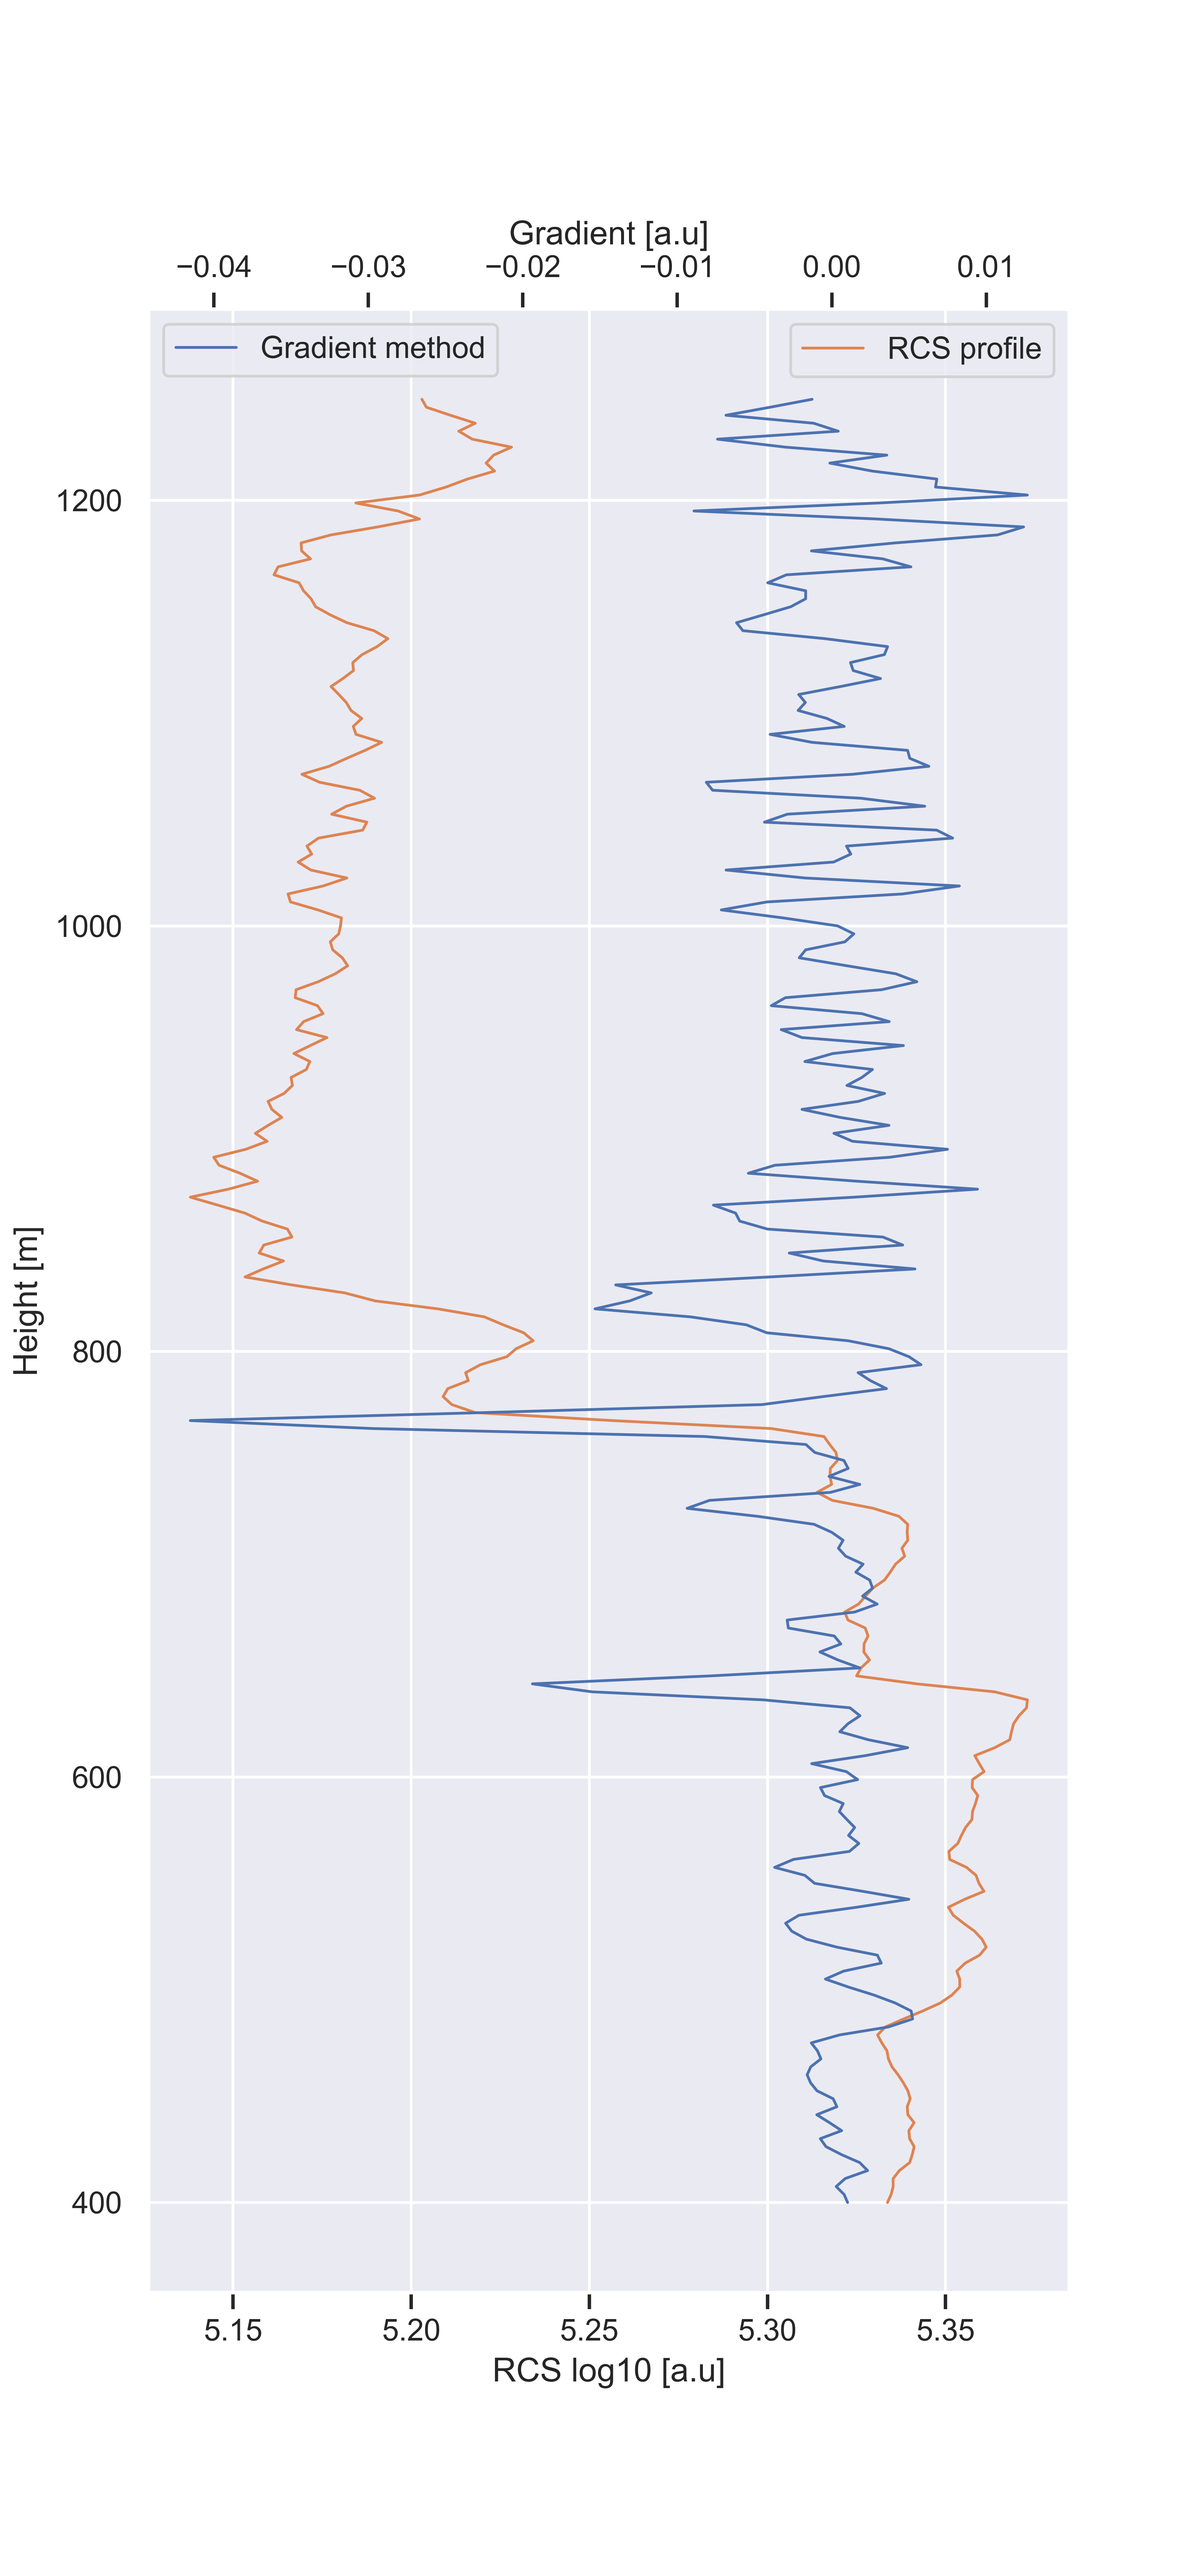
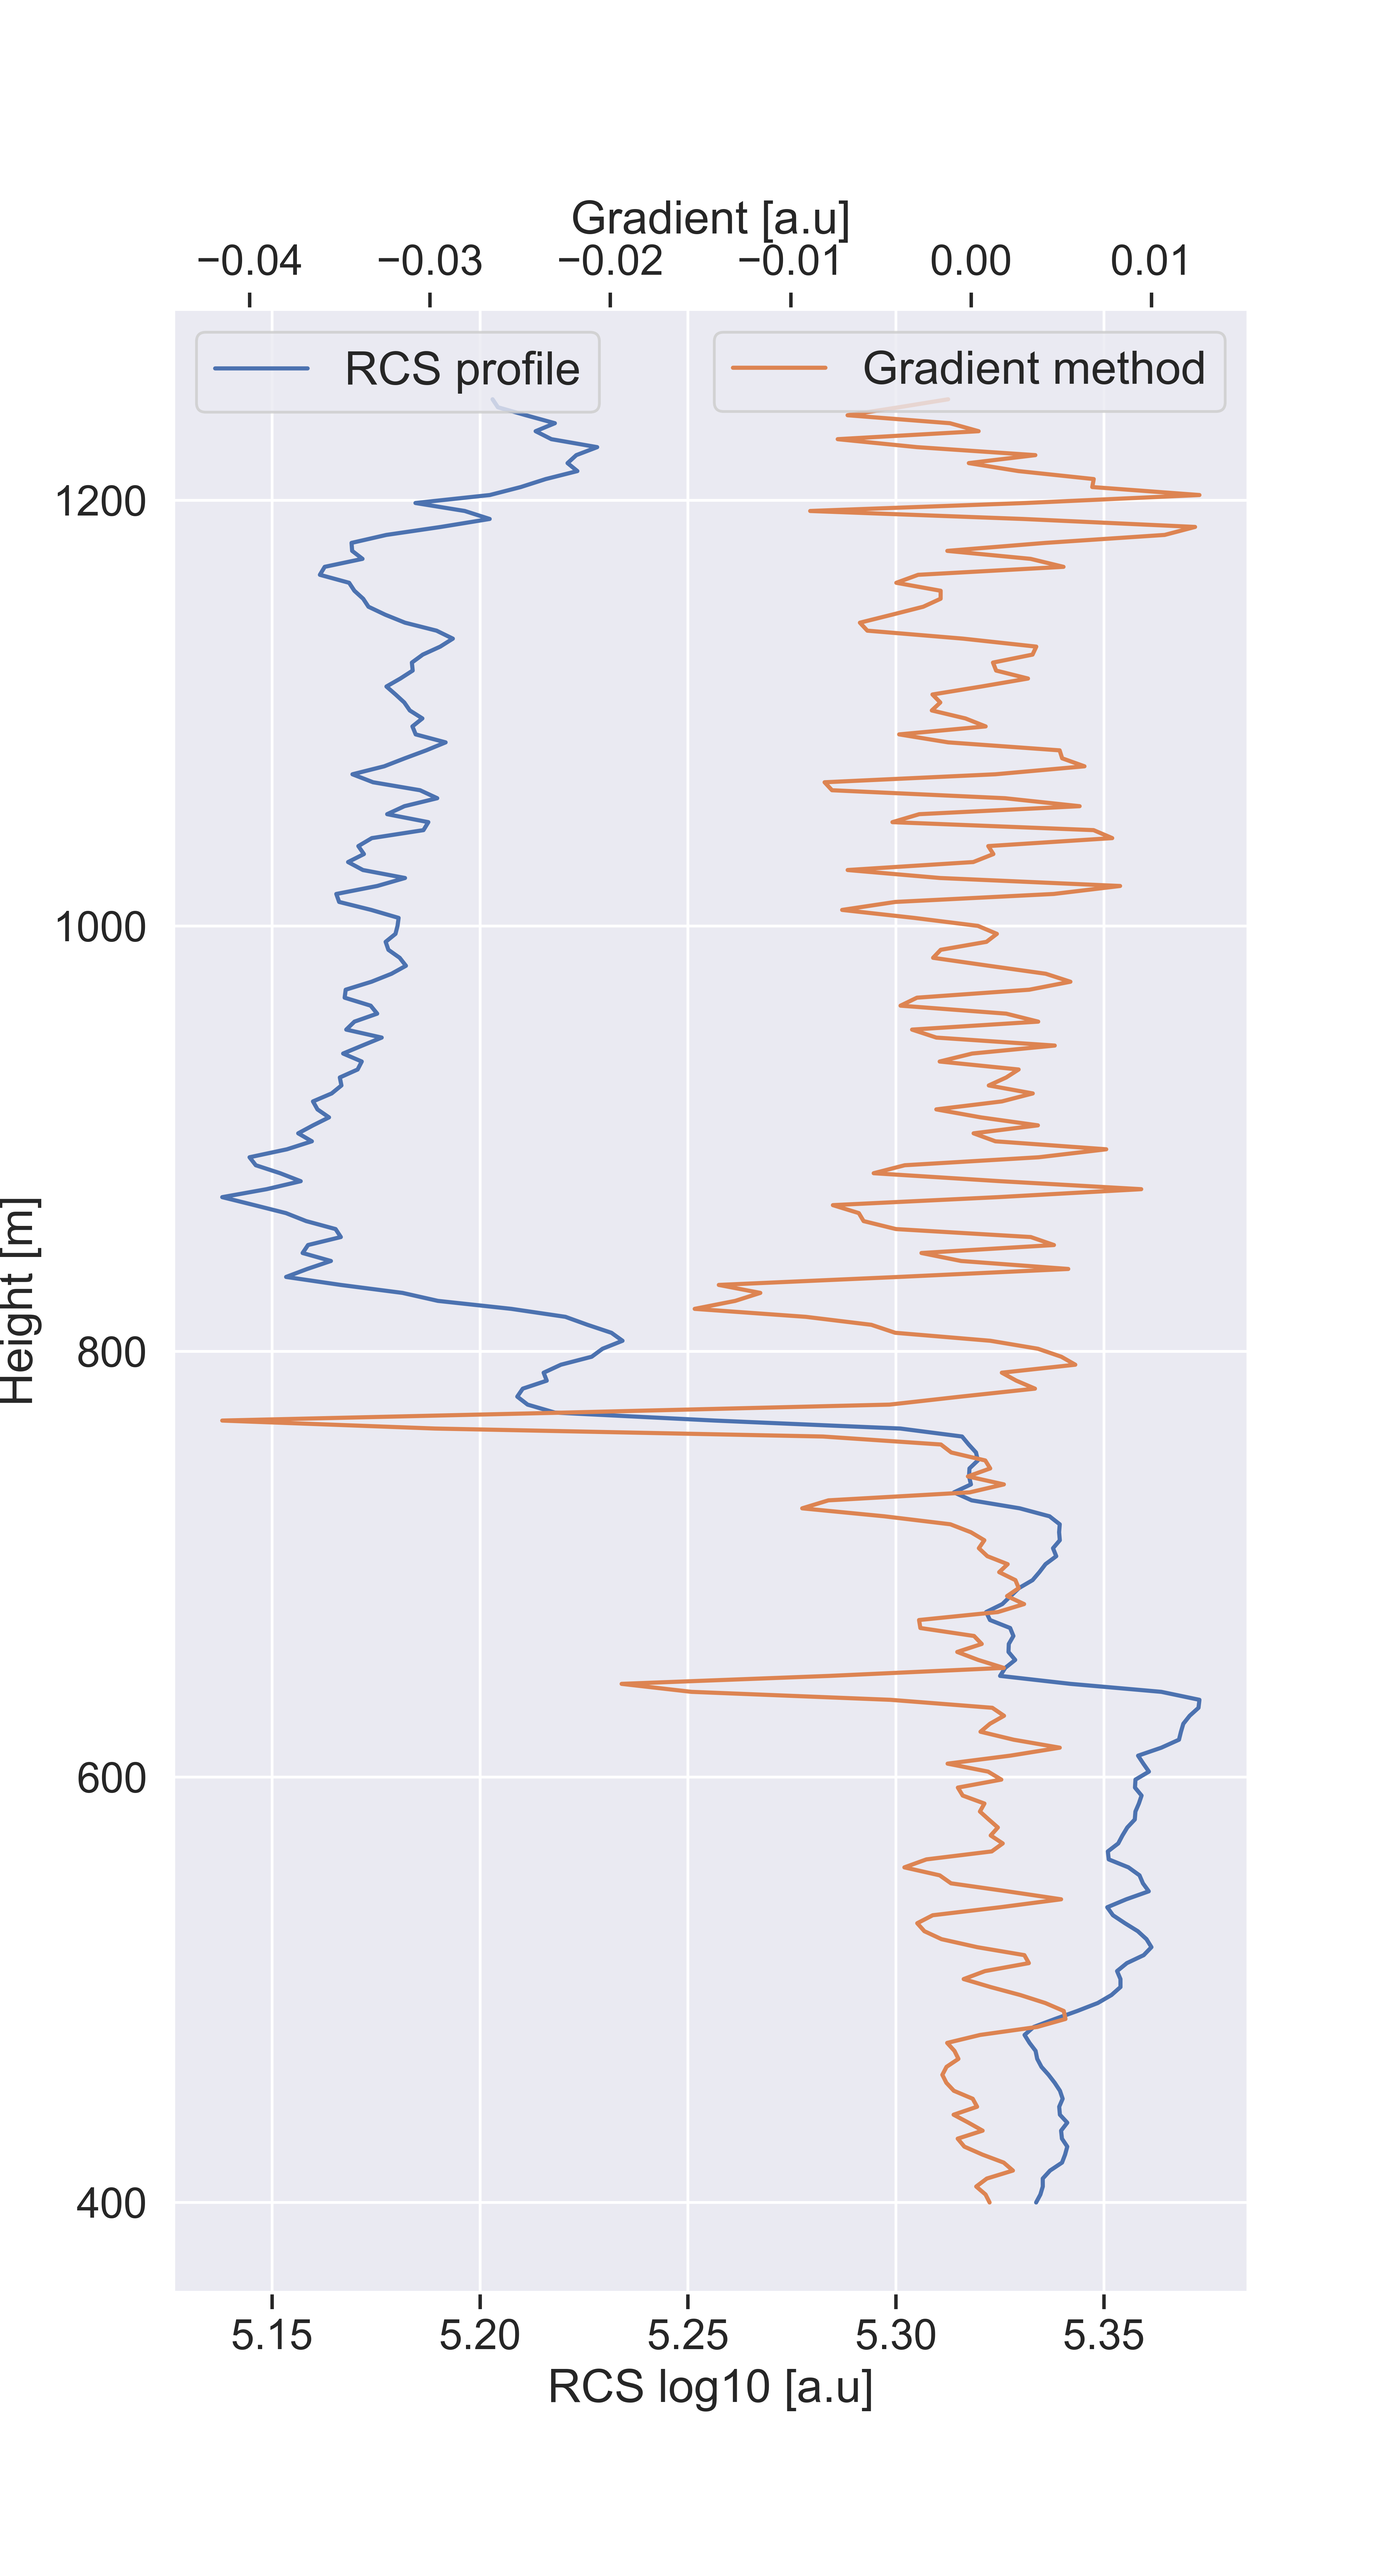
:bento: Last updates to plots

diff --git a/lidar_pbl/core/methods.py b/lidar_pbl/core/methods.py
@@ -6,6 +6,10 @@ import seaborn as sns
 # Apply the default theme
 sns.set_theme()
 
+sns.set(
+    font_scale=1.4,
+)
+
 
 def gradient_pbl(
     lidar_profile: np.ndarray,
@@ -60,13 +64,13 @@ def gradient_pbl(
 
     palette = sns.color_palette()
 
-    fig, ax = plt.subplots(figsize=(6, 13))
-    ax.plot(np.log10(safe_profile)[current_index], heights, label="RCS profile", color=palette[1], linewidth=1)
+    fig, ax = plt.subplots(figsize=(7, 13))
+    ax.plot(np.log10(safe_profile)[current_index], heights, label="RCS profile", color=palette[0], linewidth=1.5)
     ax2 = ax.twiny()
-    ax2.plot(gradient[current_index], heights, label="Gradient method", color=palette[0], linewidth=1)
+    ax2.plot(gradient[current_index], heights, label="Gradient method", color=palette[1], linewidth=1.5)
 
-    ax2.legend(loc="upper left")
-    ax.legend(loc="upper right")
+    ax.legend(loc="upper left", fontsize="medium")
+    ax2.legend(loc="upper right", fontsize="medium")
 
     ax.set(xlabel="RCS log10 [a.u]", ylabel="Height [m]")
     ax2.set(xlabel="Gradient [a.u]")
@@ -108,7 +112,7 @@ def variance_pbl(
     current_index = 80
     heights = np.arange(lidar_profile.shape[1]) * 3.75 + 400
 
-    fig, ax = plt.subplots(figsize=(6, 13))
+    fig, ax = plt.subplots(figsize=(7, 13))
 
     window = lidar_profile[current_index: current_index + window_size, :]
 
@@ -124,12 +128,16 @@ def variance_pbl(
     ax.set(xlabel="RCS [a.u]", ylabel="Height [m]")
     ax2.set(xlabel="Variance [a.u]")
 
-    ax.legend(loc="upper right")
-    ax2.legend(loc="upper left")
+    lines, labels = ax.get_legend_handles_labels()
+    lines2, labels2 = ax2.get_legend_handles_labels()
+
+    # ax.legend(loc="upper right")
     # ax2.legend(loc="upper left")
+    ax2.legend(lines + lines2, labels + labels2, loc=0)
     ax2.grid(False)
 
     fig.savefig("variance.png", dpi=600)
+    # plt.show()
 
     return window_element, variance_vote
 
